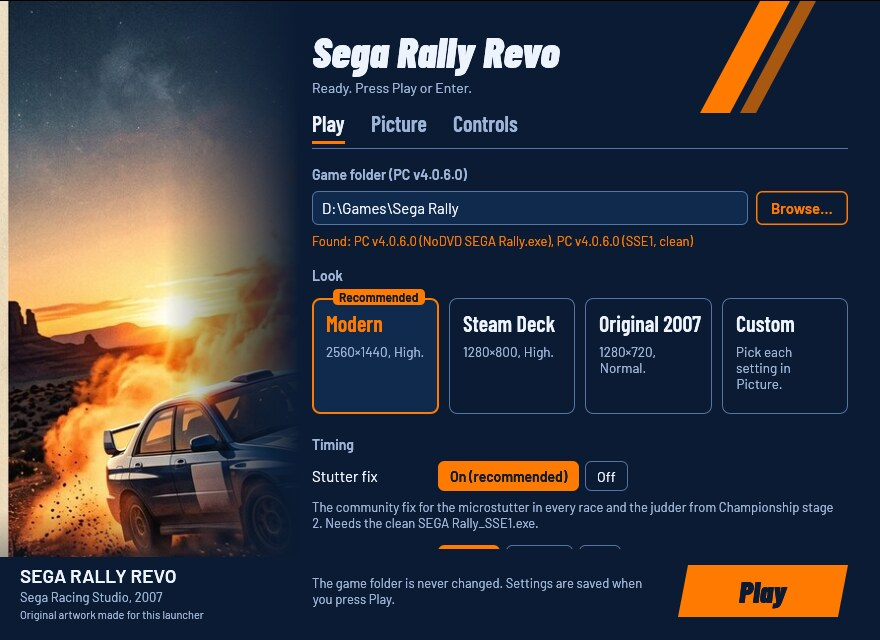
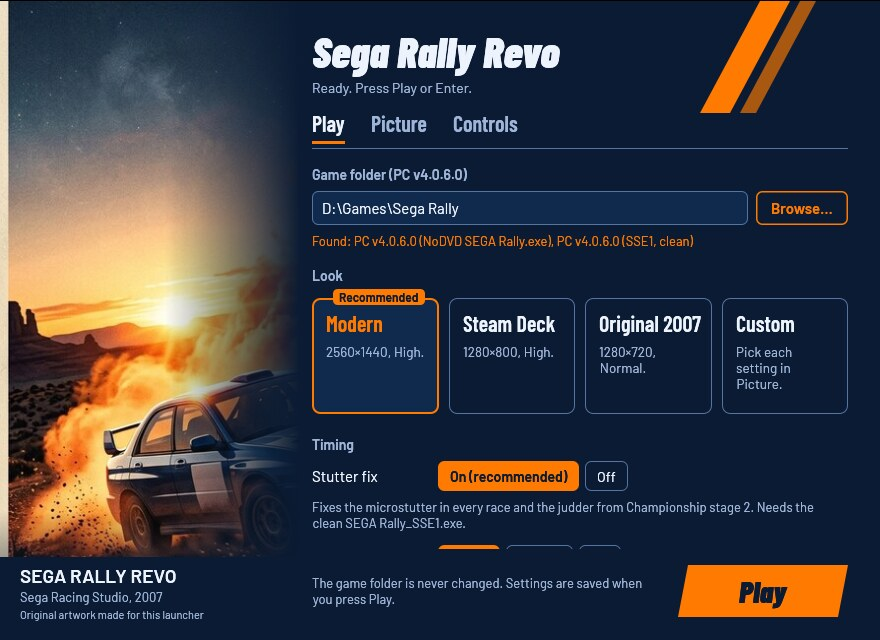
docs: the stutter fix is our clean-room implementation
docs/PACER-PROVENANCE.md (the implementer's provenance statement);
RESEARCH.md, THIRD_PARTY.md and README credits: the shipped fix is ours,
stuken is credited for the idea and the problem analysis only, no code
from patch.py. AGENTS.md owner decision updated. The option's description
no longer says "community fix" (template snapshot and the Play tab
screenshot retaken). RUNTIME_NOTES: the real-game integration check
(pacer alone and with 21:9 reach the attract race; result cb9a5a34…ff65),
the implementer's measurement table and the human playtest list.

Changed region(s): [[0.3375, 0.7812, 0.9511, 0.8438]]

diff --git a/crates/srr-launcher/src/config.rs b/crates/srr-launcher/src/config.rs
@@ -253,7 +253,7 @@ pub const OPTIONS: &[OptionSpec] = &[
         "stutter_fix",
         Kind::Toggle,
         "Stutter fix",
-        "The community fix for the microstutter in every race and the judder from Championship stage 2. Needs the clean SEGA Rally_SSE1.exe.",
+        "Fixes the microstutter in every race and the judder from Championship stage 2. Needs the clean SEGA Rally_SSE1.exe.",
     )
     .with_aliases(&["stutter-fix"]),
     OptionSpec::new(

diff --git a/docs/PACER-PROVENANCE.md b/docs/PACER-PROVENANCE.md
@@ -1,0 +1,133 @@
+# Provenance of the stutter fix (`pacer`)
+
+Copied from the clean-room implementation's `PROVENANCE.md` when it was
+integrated into this launcher (2026-11-02). Paths below are those of the
+clean-room working folder; in this repository the code is
+`crates/srr-launcher/src/pacer.rs`, the sources
+`crates/srr-launcher/pacer/{caves,sites}.asm` and the tests
+`crates/srr-launcher/tests/pacer_*.rs`.
+
+
+Clean-room implementation of the Sega Rally Revo `pacer` fix. Implementer:
+a Claude agent (Claude Code, model Opus 5.5) acting for the owner
+(boss@akitaonrails.com), 2026-11-02, as the IMPLEMENTER role of the
+clean-room process. Everything here was written inside
+`/tmp/claude-1026/cleanroom-srr/impl/`.
+
+## Statement
+
+The design (hook sites, the routine that writes the race clock, the spawn
+guard, the per-frame hook placement, register use, cave layout, header
+change, padding) came only from `SPEC.md` and from the game's own code in
+the clean `SEGA Rally_SSE1.exe` (SHA-256 `22655a54…f76e`), read with REA
+(Ghidra provider) and, for byte context the REA listing did not cover,
+with `ndisasm` on byte strings returned by REA. I never read stuken's
+`patch.py`, its README, its released executables, any
+"SegaRallyRevoStutterFix" code, the existing `patches::PACER` sites or
+caves, or anything in `~/Projects/rea-sega-rally-revo`. I never opened the
+community-fixed build (`4c08c1de…`); only its hash, given in SPEC.md, is in
+the crate. No such material was seen by accident.
+
+## What I read
+
+1. `/tmp/claude-1026/STOP-outside-changes.md` (rules).
+2. `/tmp/claude-1026/cleanroom-srr/SPEC.md` (requirements).
+3. rea-launcher-sdk at `/mnt/data/Projects/rea-launcher-sdk` (working tree
+   = tag v0.3.0 plus one CI-only commit):
+   `crates/rea-launcher/src/patch.rs`, `crates/rea-launcher/src/patch/testing.rs`
+   (the `patch::testing` module the brief names), `crates/rea-launcher/src/pe.rs`
+   (API and the `synthetic` builder), `docs/STANDARDS.md` (headings and the
+   "Running the real game in a test" section), `docs/playbooks/binary-patching.md`;
+   `grep` of `README.md` for the section "Binary patches as one table"
+   (not present at this tag; nothing else of the README was used);
+   `Cargo.toml`/`crates/rea-launcher/Cargo.toml` (workspace edition,
+   dependency names) and `grep` of `src/identify.rs` / `src/lib.rs` for
+   public function names (`sha256`, `hex`, module list).
+4. The game executable, read-only, via REA MCP tools: `open_binary`,
+   `procedure_assembly` (0x595660, 0x5951B0, 0x589890, 0x5D31F0, 0x650630,
+   0x5D21C0, 0x4AF8F0, 0x595B00, 0x595980, 0x586FF0), `xrefs` (0x9670D8,
+   0x6FA470, 0x6FA460, 0x6FA450, 0xB420A4, 0xB420A0),
+   `inspect_native_instruction` (0x9670D8 incoming refs with access kind,
+   0x65CB34, 0x594C67), `resolve_containing_procedure`, `procedure_callers`,
+   `search_bytes` (vtable pointers), `read_bytes` (site bytes, the PE
+   header at 0x400000/0x400208, the slack 0x685000–0x685FFF, vtables,
+   context at 0x65CAE0), `inspect_pe_imports`.
+5. Two reads of the clean exe made **without** REA, while REA could not
+   start (the user's `/tmp` quota was full, Ghidra failed with "Disk quota
+   exceeded"): `ndisasm` of the bytes of `0x58E9B0` (the end-of-frame
+   function named in SPEC.md §2.5) and a read-only Python parse of the
+   section table plus a scan of the file for 32-bit values pointing into
+   `.data`'s tail (the state-dword proof). Same information REA's
+   `procedure_assembly` / `search_bytes` give; when REA came back it
+   confirmed both on the patched image (`0x58E9B0` listing; `xrefs` on
+   `0xB4B960` = only my three cave instructions).
+6. The patched copy I produced (`.work/SEGA_Rally_SSE1_pacer.exe`, my own
+   output) via REA, to check it disassembles sanely.
+7. General x86 knowledge (instruction encodings, `cmpxchg8b`, MSVC
+   thiscall / stdcall, `_aulldiv` contract as observed in the listing).
+8. For the runtime run only (SPEC.md §5): the game folder listing, its
+   `readme.txt` (first lines: system requirements), the rip's
+   `Readme.txt` and `SEGA Rally.reg` one folder up (registry keys the game
+   needs: `installdir`, `sku`, `language`); the GE-Proton 11-1 DXVK
+   directory listing and `version` file, whose 32-bit `d3d9.dll` was copied
+   into the private runtime under `.work/`. Nothing in the game folder was
+   modified.
+
+## Incidental exposure (reported)
+
+While listing processes to check for leftover game processes
+(`ps … | grep -i sega`), the output included the command line of another
+agent's unrelated shell, which held the text of compliance-audit notes
+for other launchers. One line of it mentions that the existing SRR pacer
+is "derived from patch.py" and that its licence matters. It contains no
+code, bytes, addresses or design details of `patch.py` or of the existing
+pacer, and nothing from it was used. Reported here for completeness.
+
+## What I did not read
+
+- stuken/SegaRallyRevoStutterFix in any form (repo, README, `patch.py`,
+  releases, patched executables).
+- `~/Projects/rea-sega-rally-revo` (source, docs, tests, git history), and
+  any launcher runtime copy it makes.
+- Any patched executable other than my own output.
+- The SDK's other sources, templates, launchers or skills beyond item 3.
+
+## Timeline (2026-11-02, -03:00)
+
+- 12:53 read rules, SPEC.md, SDK files; verified the exe hash
+  (`sha256sum`, matches SPEC.md).
+- 12:55–13:00 REA analysis of the pacer thread, spawn, master clock,
+  keyframe update and its vtable, all race-clock writers and run-flag
+  writers; found the five writers and the third stop path `0x65CB24`.
+- 13:00 design fixed: one monotonic, locked store routine for every
+  race-clock write; spawn guard on the handle slot; per-frame refresh at
+  the consumer's entry; raise `.text` VirtualSize.
+- 13:00–13:03 wrote `src/caves.asm` / `src/sites.asm`, assembled with
+  NASM 3.02, wrote the crate and tests (golden, assembler, iced-x86 path
+  analysis, env-gated real exe).
+- 13:04 first real-exe run; pinned result hash. REA on the patched copy
+  showed Ghidra stopping inside a long NOP run; replaced NOP tails with
+  `jmp short end` + `int3`; re-pinned (`198cff5b…d260`, v1); REA re-check clean.
+- 13:09–13:15 first headless runs (clean, fixed v1). The fixed build moved
+  the race clock by real time, not 16-ms chunks, but the pacer's own
+  16-ms writes still jittered the value seen at frame end.
+- 13:17 v2: pacer tick/snap stand aside for 100 ms after a frame-hook
+  store (state dword in `.data`'s tail; REA unavailable, proof by
+  read-only byte scan; `.data` VirtualSize raised). Hash `a7b370e5…`.
+- 13:21 v2 measured: race clock still on the pacer grid in the attract
+  demo → `0x5D31F0` does not run there. Read `0x58E9B0` (ndisasm) and
+  added `frame_end_hook` replacing the frame-timestamp master update at
+  `0x58E9D3`. Final hash `cb9a5a34…`. REA back: final image checked.
+- 13:25–13:45 first measurement batch; discarded (another workload was
+  using the GPU). Secrets notice received: all runs since use `env -i`;
+  scan of all outputs for credentials: none found.
+- ~14:05–14:25 final batch, GPU idle, clean/fixed back to back, DXVK
+  vsync60 / lim60 / lim120 / off; see `RUNTIME_NOTES.md`.
+
+## Tools
+
+REA MCP (Ghidra 12.1.2 provider), NASM 3.02, ndisasm, Rust 1.99.1
+(toolchain binary called directly, private `CARGO_HOME` under `.work/`;
+nothing written to `~/.cargo` or `~/.rustup`), iced-x86 1.x (dev-dependency),
+`sha256sum`, Python 3 (byte slicing, sampler, analysis), distrobox `gaming`
+(Wine 11.21, gamescope 3.17.0), DXVK 2.7.1 from GE-Proton 11-1 (copied).

diff --git a/docs/RESEARCH.md b/docs/RESEARCH.md
@@ -113,30 +113,34 @@ From the `distrobox-gaming` install history (2026-05-01 through 2026-08-21):
   standard); "enable high frame rate" (PCGamingWiki: also fixes the odd
   frame pacing at 60 Hz; Championship always caps at 62.5 fps).
 
-**The proper fix** is [stuken/SegaRallyRevoStutterFix](https://github.com/stuken/SegaRallyRevoStutterFix):
-three code caves in the clean `SEGA Rally_SSE1.exe` (whose reference MD5
-matches our rip's file byte-for-byte):
+**The community fix** is [stuken/SegaRallyRevoStutterFix](https://github.com/stuken/SegaRallyRevoStutterFix)
+(`patch.py`, no licence): it showed that both bugs can be fixed in the
+clean `SEGA Rally_SSE1.exe` (whose reference MD5 matches our rip's file
+byte-for-byte) with a pacer spawn guard (B) and a race clock taken from
+the master clock (A).
 
-1. *Pacer spawn guard* — at most one pacer thread (fixes B).
-2. *Race-clock tick samples the master clock* instead of `+16 ms` (fixes A
-   at the source).
-3. *Main loop refreshes the race clock every frame* (makes A impossible
-   even if a pacer stalls).
+**The shipped fix is our clean-room implementation** (owner decision,
+2026-11-02): a specification of the required behaviour (invariants R1–R6),
+then an independent implementation from that specification and the game's
+own code read with REA, with no access to `patch.py`, its output or the
+old table (`docs/PACER-PROVENANCE.md`). stuken is credited for the idea
+and the problem analysis only. What it does (`crates/srr-launcher/src/pacer.rs`,
+`pacer/*.asm`):
 
-**Clean-room rewrite (owner decision, 2026-11-02).** The current caves
-derive from stuken's unlicensed `patch.py` (the repository has no licence),
-so they are being replaced by a clean-room implementation: a spec of what
-the three changes must do, written from the behaviour above, then an
-independent implementation from that spec alone. Until it lands the
-current table stays as it is. Docs and issues describe the fix by
-behaviour, never by its cave bytes.
+- R1: the pacer spawn routine returns early while a pacer is alive (one
+  pacer thread: fixes B).
+- R2/R4: all five writers of the race clock store `master_µs / 1000`
+  through one routine, under the master clock's own lock, never backwards;
+  the `+16 ms` tick is gone (fixes A).
+- R3: the race clock is refreshed from the frame timestamp at every
+  present and on entry to the in-race keyframe update; the pacer stands
+  aside while that happens.
 
-This launcher reimplements that patch in Rust (`patches::pacer`), with the
-same self-checks (clean hook-site bytes, zero-filled caves, size guard,
-overlap guard) and the same normalisation sites. Golden bytes from the
-reference assembly are pinned in the unit tests; applying the patch to the
-real game file reproduces the reference SHA-256
-`4c08c1de…f1ad08f2520` (verified on this machine).
+Eight code sites, one 224-byte cave in `.text` slack, `.text` and `.data`
+VirtualSize raised; clean `22655a54…` → `cb9a5a34…ff65` (verified by the
+SDK on every launch). Headless measurements (race clock vs. present
+interval) are in `docs/RUNTIME_NOTES.md`. A player's exe patched with
+stuken's fix (`4c08c1de…`) is recognised and run as it is.
 
 A second patch, [Martijnsx/Sega-Rally-Revo-Frame-Pacing-Fix](https://github.com/Martijnsx/Sega-Rally-Revo-Frame-Pacing-Fix)
 (P1: two timer initializers 15,999 µs → 0, four bytes), targets a
@@ -189,7 +193,7 @@ configuration; multisample stability under DXVK is untested.
 
 | Project | What it fixes | Licence | Maintained | Decision |
 | --- | --- | --- | --- | --- |
-| [stuken/SegaRallyRevoStutterFix](https://github.com/stuken/SegaRallyRevoStutterFix) | both stutter bugs, clean SSE1 v4.0.6.0 only (`patch.py`) | **none** (no licence file; README and `patch.py` state no terms; checked 2026-11-02) | yes (last push 2026-09-12) | reimplemented as `patches::PACER`; its cave machine code equals the fix's output. **Owner decision 2026-11-02:** the current caves derive from stuken's unlicensed `patch.py`; they are being replaced by a clean-room implementation (a written spec of the behaviour, then an independent implementation, done separately). The U1 licence request (`docs/CONTRIBUTIONS.md`) stays a draft. |
+| [stuken/SegaRallyRevoStutterFix](https://github.com/stuken/SegaRallyRevoStutterFix) | both stutter bugs, clean SSE1 v4.0.6.0 only (`patch.py`) | **none** (no licence file; README and `patch.py` state no terms; checked 2026-11-02) | yes (last push 2026-09-12) | not used as code: credited for the idea and the analysis; the shipped fix is our clean-room implementation (2026-11-02, `docs/PACER-PROVENANCE.md`); a player's exe patched with it is recognised by hash. The U1 licence request (`docs/CONTRIBUTIONS.md`) is no longer needed for the launcher. |
 | [Martijnsx/Sega-Rally-Revo-Frame-Pacing-Fix](https://github.com/Martijnsx/Sega-Rally-Revo-Frame-Pacing-Fix) | timer initialisers 15,999 µs → 0 (P1), HTML/Python patcher | **none** (no licence file, checked 2026-11-02) | yes (last push 2026-10-21) | not used: another build (3,700,786 bytes). Nothing taken from it. |
 | DXVK (`d3d9.maxFrameRate`) | Linux/Wine renderer, frame limiter | Zlib | yes | bundled (pinned, mirrored) |
 | Widescreen Fixer / WSGF hex edit | ultra-wide aspect | WSGF technique (no code) | — | technique reused at our builds' offsets |

diff --git a/docs/RUNTIME_NOTES.md b/docs/RUNTIME_NOTES.md
@@ -480,3 +480,71 @@ This settles bug 2 of the verification entry above. The Wine-side
 registry round trip (ours written, the player's value kept, ours taken
 back) is covered by `tests/wine_app_overrides.rs` under
 `sdk/scripts/wine-test`.
+
+## 2026-11-02 — the clean-room stutter fix (integration)
+
+`patches::PACER` is now the clean-room set (`crates/srr-launcher/src/pacer.rs`,
+`pacer/*.asm`; provenance in `docs/PACER-PROVENANCE.md`). On the owner's
+rip (read-only), headless as above:
+
+- `SRR_GAME_DIR=… cargo test real_game -- --ignored` and the env-gated
+  `tests/pacer_real_game.rs`: clean `22655a54…` → **`cb9a5a34…ff65`**,
+  405 bytes changed, all inside the declared sites, PE intact,
+  idempotent, reversible, and combined with sets at the aspect offsets.
+  VERIFIED.
+- Launch with `--stutter-fix on --resolution 1920x1080`: `launcher.log`
+  "SEGA Rally_SSE1.exe: patches pacer (SHA-256 cb9a5a34…ff65)"; the game
+  reached the attract race (Canyon, then the Skoda replay) and ran 60 s
+  until the supervisor's close request (gone in 0.39 s). VERIFIED,
+  `keep/cr-pacer-060.jpg`.
+- With 21:9 (`--resolution 2560x1080`): "patches pacer + aspect 21:9
+  (SHA-256 d3f4a417…d47e)"; the attract race ran 60 s. VERIFIED,
+  `keep/cr-pacer-219-060.jpg`.
+
+Measurements by the clean-room implementer (their harness: the race clock
+`0x9670D8` and the frame timestamp read from `/proc/<pid>/mem` once per
+frame, attract demo race, DXVK in headless gamescope at 60 Hz, GPU
+otherwise idle; an earlier batch on a shared GPU was discarded). Clean
+build vs. clean-room build (`cb9a5a34…`), back to back per mode. Their
+DXVK was 2.7.1 (vsync60 = `presentInterval = 1`; lim60/lim120 =
+`maxFrameRate = 60/120` with vsync off; off = no limit):
+
+| Metric (demo race) | Clean vsync60 | Fixed vsync60 | Clean lim60 | Fixed lim60 | Clean lim120 | Fixed lim120 | Clean off | Fixed off | Target |
+|---|---|---|---|---|---|---|---|---|---|
+| frames scored | 5404 | 5582 | 5631 | 5606 | 11203 | 11406 | 80869 | 102461 | ≥ 3000 |
+| Δrace top values (ms) | 16, 32, 0 | 17, 16, 18 | 16, 32, 0 | 17, 16, 18 | 16, 0 | 8, 9, 7 | 0, 16 | 1, 0, 2 | |
+| Δrace 16–17 ms (60 fps) | 93.2 % | 87.4 % | 93.1 % | 88.6 % | | | | | ≥ 99 % |
+| Δrace 8–9 ms (120 fps) | | | | | 0 % | 84.8 % | | | ≥ 99 % |
+| Δrace = 0 or ≥ 32 ms | 6.8 % | 0 % | 6.9 % | 0 % | 47.9 % | 0 % | (uncapped) | (uncapped) | 0 |
+| \|Δrace − Δpresent\| p99 | 15.3 ms | **0.92 ms** | 16.0 ms | **0.90 ms** | 9.8 ms | **0.88 ms** | 15.2 ms | **0.89 ms** | ≤ 1.5 ms |
+| \|Δrace − Δpresent\| ≤ 1 ms | 54.6 % | 99.87 % | 78.7 % | 99.98 % | 0.03 % | 99.96 % | 40.6 % | 99.94 % | |
+| race clock backwards | 0 | 0 | 0 | 0 | 0 | 0 | 0 | 0 | 0 |
+| snaps (>64 ms, no gap) | 0 | 0 | 0 | 0 | 0 | 0 | 0 | 0 | 0 |
+| Δpresent p50 (ms) | 16.94 | 16.95 | 16.66 | 16.66 | 8.32 | 8.33 | 1.06 | 0.82 | |
+| Δpresent p99 − p50 (ms) | 1.12 | 1.55 | 1.36 | 2.15 | 2.82 | 2.83 | 1.66 | 1.51 | ≤ clean + 0.5 |
+| presents 16–18 ms apart | 97.5 % | 95.8 % | 95.0 % | 88.6 % | | | | | |
+| presents 8–10 ms apart | | | | | 71.6 % | 76.6 % | | | |
+| handle replaced while live | 0 | 0 | 0 | 0 | 0 | 0 | 0 | 0 | 0 |
+
+Reading (theirs, condensed): the clean build moves the race clock only in
+16-ms steps (0/16/32 ms at 60 fps). The fixed build follows each
+presented frame's real time: p99 error 0.88–0.92 ms, within 1 ms on
+99.87–99.98 % of frames, never backwards, no snaps. The "16–17 ms on
+≥ 99 %" target was not met headless because the present cadence itself
+varies there (88.6 % of presents 16–18 ms apart); it needs a real 60-Hz
+display. The lim60 present-cadence spread (+0.79 ms) is one run each and
+more likely DXVK limiter jitter; repeat runs are needed. One pacer (R1)
+was not exercised: the attract loop never starts a second pacer.
+
+Still for a person (not automatable headless):
+
+1. Championship, stages 1 → 2 → 3 (frame limit 60): no stutter or time
+   jump in the stage-2+ countdowns (the old judder); at most one pacer
+   thread.
+2. Pause mid-race for 10 s: the lap timer behaves as in the clean build.
+3. Alt-tab (device lost) and a loading screen: no crash; the race clock
+   jumps forward once, never backwards.
+4. A full race with the same inputs against the community-fixed build:
+   lap times within ±1 frame.
+5. A real 60-Hz display with vsync: the 16–17 ms ≥ 99 % row.
+6. Quit to the menu, a new Quick Race, quit the game: clean exit, no hang.

diff --git a/README.md b/README.md
@@ -29,7 +29,7 @@ loading wait is cut out).*
 | Exclusive fullscreen crashes on multi-monitor and high-refresh Linux desktops | Runs the game inside its own Wine desktop at the resolution you chose |
 | On hybrid-GPU laptops and desktops the game renders on the integrated GPU and shows a black screen | Makes the game use the discrete GPU |
 | Startup stalls on the logo videos under Wine | Turns the two logo videos off in the private copy |
-| Every race microstutters, and Championship stages after the first judder | Applies stuken's community stutter fix to the private copy |
+| Every race microstutters, and Championship stages after the first judder | Applies the launcher's stutter fix (a clean-room rewrite after stuken's analysis) to the private copy |
 | Frame pacing is uneven | Caps the frame rate at 60 fps, or 120 or off for high-refresh screens (Linux, Wine and Proton) |
 | Community fixes overwrite your install | Everything happens in a private copy; your game folder is only read |
 
@@ -178,7 +178,7 @@ commented `launcher.cfg` listing every option.
 | `game` / `--game` | Play: Game folder | a folder | asked on the first run | The folder with `SEGA Rally.exe` or `SEGA Rally_SSE1.exe`. It is only read, never changed. |
 | `runtime` / `--runtime` | — (file and flag only) | a folder outside the game folder | `%LOCALAPPDATA%\SRRLauncher\SegaRally` | Where the launcher keeps its private copy of the game. |
 | `look` / `--look` | Play: Look | `modern`, `steam-deck`, `original`, `custom` | the recommended look | A ready-made picture. On the command line it sets that look's resolution, quality and vsync for one run; other options still win. |
-| `stutter_fix` / `--stutter-fix` | Play: Stutter fix | `on`, `off` | on | The community fix for the microstutter in every race and the judder from Championship stage 2. Needs the clean `SEGA Rally_SSE1.exe`; without it the game runs from `SEGA Rally.exe` and your choice is kept for later. |
+| `stutter_fix` / `--stutter-fix` | Play: Stutter fix | `on`, `off` | on | Fixes the microstutter in every race and the judder from Championship stage 2. Needs the clean `SEGA Rally_SSE1.exe`; without it the game runs from `SEGA Rally.exe` and your choice is kept for later. |
 | `frame_limit` / `--frame-limit` | Play: Frame limit | `60`, `120`, `off` | 60 | The highest frame rate under Linux, Wine or Proton (through DXVK). On native Windows the game follows vsync and the control is greyed out. |
 | `language` / `--language` | Play: Language | `English`, `French`, `German`, `Spanish`, `Italian`, `Polish` | the game's (English when it has none) | The language of the game's menus. |
 | `resolution` / `--resolution` | Picture: Resolution | `auto` or `WIDTHxHEIGHT` | the game's (your screen on a first run) | The game's screen size; `auto` uses your screen. Ultra-wide sizes (21:9 such as 3440×1440, 32:9 such as 5120×1440) get the aspect fix so the picture isn't stretched. |
@@ -382,7 +382,9 @@ and `srr-play`'s settings.
 ## Credits
 
 - **stuken**: [SegaRallyRevoStutterFix](https://github.com/stuken/SegaRallyRevoStutterFix),
-  the stutter fix this launcher applies (reimplemented in Rust).
+  for finding the two stutter bugs and showing they can be fixed. The
+  launcher's fix is our own clean-room implementation; no code from
+  `patch.py` is used (`docs/PACER-PROVENANCE.md`).
 - **DXVK** (Philip Rebohle and contributors): Direct3D 9 on Vulkan for
   Linux.
 - **Wine** and **Kron4ek's** Wine builds: the AppImage's Wine.

diff --git a/AGENTS.md b/AGENTS.md
@@ -55,12 +55,15 @@ as `distrobox enter gaming -- sh -c 'cd /absolute/path && …'`.
   16:9/16:10 chips did nothing); ultra-wide sizes get the aspect fix.
 - **2026-11-02 — `launcher.cfg` keys use underscores**; the hyphenated
   `frame-limit`/`stutter-fix` stay readable as aliases.
-- **2026-11-02 — the stutter fix gets a clean-room rewrite.** The current
-  `patches::PACER` caves derive from stuken's unlicensed `patch.py`. They
-  are being replaced by a clean-room implementation (a written spec, then
-  an independent implementation, done separately). Until then: don't
-  change the pacer patch code or its tests, and don't copy or quote its
-  cave bytes into docs, issues or other code.
+- **2026-11-02 — the stutter fix is our clean-room implementation.** The
+  old `patches::PACER` caves (derived from stuken's unlicensed `patch.py`)
+  are gone; `patches::PACER` is now `crate::pacer::PACER`, written from a
+  specification and the game's own code (`docs/PACER-PROVENANCE.md`;
+  clean `22655a54…` → `cb9a5a34…ff65`). stuken is credited for the idea
+  and the analysis only. Never bring `patch.py` code or bytes (or those of
+  the community-fixed exe `4c08c1de…`) into this repository; that exe is
+  only recognised by hash as already fixed. Change the pacer through
+  `pacer/*.asm` and keep `tests/pacer_*.rs` green.
 
 - **2026-11-02 — the game makes its own save files.** The launcher no
   longer seeds empty `SEGA Rally.dat` / `SR_RANKTABLES.DAT` (the game
@@ -77,8 +80,8 @@ as `distrobox enter gaming -- sh -c 'cd /absolute/path && …'`.
   `SEGA Rally.exe`). Refuse unknown executables with their SHA-256 and the
   issue link; never patch them.
 - Only the private runtime copies are patched, always from the game
-  folder's untouched executable: the stutter fix (`patches::PACER`, clean
-  SSE1 only, result hash verified) and the ultra-wide aspect sets.
+  folder's untouched executable: the stutter fix (`patches::PACER`, the
+  clean-room set, clean SSE1 only, result hash verified) and the ultra-wide aspect sets.
   Everything else is configuration the game reads.
 - `config.ini` is seeded complete only when missing; afterwards only the
   keys of options set in `launcher.cfg` are written (`ini::Owned`). Never

diff --git a/THIRD_PARTY.md b/THIRD_PARTY.md
@@ -52,15 +52,16 @@ Add a row before bundling anything new.
 
 ## Not bundled, but wired
 
-- The community stutter fix (stuken/SegaRallyRevoStutterFix) is
-  reimplemented as the `patches::PACER` table. Its three code caves are the
-  same machine code the fix's `patch.py` writes (about 130 bytes, pinned as
-  golden bytes); the fix's repository has **no licence file**, so those
-  bytes have no grant to be republished. **Owner decision 2026-11-02:**
-  they are being replaced by a clean-room implementation (a written spec,
-  then an independent implementation); until then the table is unchanged.
-  A licence request to the author is drafted in `docs/CONTRIBUTIONS.md`
-  (U1). The game executables it patches belong to the player's own copy.
+- The stutter fix (`patches::PACER`, `crates/srr-launcher/src/pacer.rs`
+  and `pacer/*.asm`) is **this project's own clean-room implementation**
+  (MIT OR Apache-2.0, like the code), written from a specification of the
+  required behaviour and the game's own code; provenance in
+  `docs/PACER-PROVENANCE.md`. stuken/SegaRallyRevoStutterFix is credited
+  for the idea and the problem analysis only; no code or bytes from its
+  `patch.py` (which has no licence) are in this repository since
+  2026-11-02. A player's exe already patched with stuken's fix
+  (SHA-256 `4c08c1de…`) is recognised by hash and run as it is. The game
+  executables it patches belong to the player's own copy.
 
 The launcher never bundles official game patches, cracks, or registry
 files from the rip; the registry values it writes are its own

diff --git a/CHANGELOG.md b/CHANGELOG.md
@@ -2,6 +2,15 @@
 
 ## Unreleased
 
+- **The stutter fix is now our own clean-room implementation.** It was
+  written from a specification of what the fix must do and the game's own
+  code, without stuken's `patch.py` (which has no licence); stuken is
+  credited for finding the bugs and showing the way. Besides the single
+  pacer thread, the race clock now follows the real time of every frame
+  at any frame limit (measured: within 1 ms on 99.9 % of frames at 60,
+  120 fps and uncapped, never backwards). A `SEGA Rally_SSE1.exe` you
+  patched yourself with stuken's fix is still recognised and run as it
+  is. See `docs/PACER-PROVENANCE.md`.
 - **No more "Player Progress Data Corrupt" / "Local Leaderboard Corrupt"
   on a first start.** The launcher created empty save and leaderboard
   files, which the game reported as corrupt; it now lets the game make
